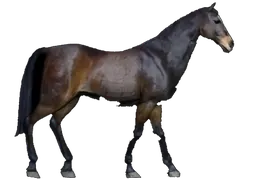
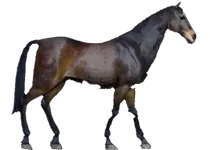
The footer scene, polished
Daniel, 2026-10-16. The horse no longer shows a black patch by its neck
when it lowers its head: the cutout only fills an enclosed gap when the gap
is dark horse, not trapped background. It is cropped to the tightest box
over every frame, with a cleaner edge. The horizon now runs off the left
edge of the screen into the saguaro and ends at the right edge of the text
column, and the tumbleweed drops off that end instead of bouncing on air.
The ground line also gets an explicit width; it had been reaching the edge
only by the accident of its own viewBox size.

diff --git a/components/site/FooterScene.tsx b/components/site/FooterScene.tsx
@@ -8,12 +8,19 @@ import {
   SCENE_LINE_D,
   SCENE_LINE_TRANSFORM,
   SCENE_LINE_VIEWBOX,
+  SCENE_LEFT_D,
+  SCENE_LEFT_TRANSFORM,
+  SCENE_LEFT_VIEWBOX,
 } from "@/components/site/footer-scene-paths";
 import { clearsThreshold } from "@/lib/onscreen";
 
 /** How long the tumbleweed waits before it rolls again while the scene stays
     in view. */
 export const TUMBLEWEED_PAUSE_MS = 25_000;
+/** One bounce, and the drop off the end of the line, in seconds; the CSS
+    animations use the same numbers. */
+const BOUNCE_S = 1.1;
+const FALL_S = 0.7;
 /** How much of the band must be on screen to count as in view. */
 const SCENE_VISIBLE = 0.6;
 
@@ -21,8 +28,9 @@ const SCENE_VISIBLE = 0.6;
  * The band at the foot of every page (Daniel, 2026-10-16): the long logo in
  * the text ink, a horse on the ground line at the right that eats and then
  * stands for five seconds, and a tumbleweed that rolls in from the left,
- * passes behind the saguaro and the mountain, and bounces on until it leaves
- * the screen. It rolls each time the band comes into view and again every
+ * passes behind the saguaro and the mountain, bounces along the line and
+ * drops off its end (Daniel, 2026-10-16: off the end it falls, it does not
+ * bounce on air). It rolls each time the band comes into view and again every
  * TUMBLEWEED_PAUSE_MS while it stays there. Decorative only: hidden from
  * assistive tech, and still under prefers-reduced-motion (no tumbleweed, the
  * horse a single frame).
@@ -43,9 +51,25 @@ export default function FooterScene() {
       if (timer !== undefined) clearTimeout(timer);
       timer = undefined;
     };
+    // The crossing is measured each time, because where the line ends and
+    // how big the tumbleweed is both follow the width of the screen. It rolls
+    // at a speed tied to the band height, so a phone sees the same pace.
     const roll = () => {
       timer = undefined;
       if (!visible || rolling || still.matches) return;
+      const line = el.querySelector<SVGElement>(".scene-line");
+      const tw = el.querySelector<HTMLElement>(".scene-tw");
+      if (!line || !tw) return;
+      const band = el.getBoundingClientRect();
+      const size = tw.offsetWidth;
+      const end = line.getBoundingClientRect().right - band.left;
+      const speed = band.height * 1.1;
+      const distance = end + size / 2 + 4;
+      const seconds = distance / speed;
+      el.style.setProperty("--roll-x", `${end - size / 2}px`);
+      el.style.setProperty("--roll-t", `${seconds.toFixed(3)}s`);
+      el.style.setProperty("--bounce-n", `${(seconds / BOUNCE_S).toFixed(3)}`);
+      el.style.setProperty("--fall-dx", `${(speed * FALL_S * 0.6).toFixed(1)}px`);
       rolling = true;
       el.dataset.rolling = "true";
     };
@@ -61,7 +85,7 @@ export default function FooterScene() {
       }
     };
     const onEnd = (e: AnimationEvent) => {
-      if (e.animationName !== "tumbleweed-across") return;
+      if (e.animationName !== "tumbleweed-fall-y") return;
       rolling = false;
       delete el.dataset.rolling;
       if (visible) timer = setTimeout(roll, TUMBLEWEED_PAUSE_MS);
@@ -96,11 +120,25 @@ export default function FooterScene() {
     <div className="foot-scene" ref={root} aria-hidden="true">
       <div className="scene-tw-track">
         <span className="scene-tw">
-          <span className="scene-tw-bounce">
-            <span className="scene-tw-spin" />
+          <span className="scene-tw-fall-x">
+            <span className="scene-tw-fall-y">
+              <span className="scene-tw-bounce">
+                <span className="scene-tw-spin" />
+              </span>
+            </span>
           </span>
         </span>
       </div>
+      <svg
+        className="scene-left"
+        viewBox={SCENE_LEFT_VIEWBOX}
+        preserveAspectRatio="none"
+        focusable="false"
+      >
+        <g fill="currentColor" transform={SCENE_LEFT_TRANSFORM}>
+          <path d={SCENE_LEFT_D} />
+        </g>
+      </svg>
       <svg className="scene-art" viewBox={SCENE_ART_VIEWBOX} focusable="false">
         <g fill="currentColor" transform={SCENE_ART_TRANSFORM}>
           <path d={SCENE_ART_D} />
@@ -123,8 +161,8 @@ export default function FooterScene() {
           className="scene-horse"
           src="/brand/footer/horse.webp"
           alt=""
-          width={256}
-          height={180}
+          width={210}
+          height={150}
           loading="lazy"
           decoding="async"
         />

diff --git a/app/globals.css b/app/globals.css
@@ -745,9 +745,14 @@ h2{font-size:clamp(1.7rem,3.6vw,2.7rem);letter-spacing:-0.02em;}
   position:relative;height:var(--sh);margin-top:30px;overflow:hidden;
   container-type:inline-size;color:var(--text);
 }
-.scene-art,.scene-line{position:absolute;top:0;height:100%;display:block;}
+/* The horizon runs off the left edge and ends at the right edge of the text
+   column, where the tumbleweed drops off it. The left stretch reaches 20 units
+   into the drawing (x 60) so the two lines meet at full thickness. */
+.scene-art,.scene-line,.scene-left{position:absolute;top:0;height:100%;display:block;}
 .scene-art{left:var(--ax);width:var(--aw);}
-.scene-line{left:calc(var(--ax) + var(--aw) - 0.5px);right:0;width:auto;}
+.scene-left{left:0;width:calc(var(--ax) + var(--aw) * 20 / 860);}
+/* An svg takes its own width from its viewBox unless told, so the width is set. */
+.scene-line{left:calc(var(--ax) + var(--aw) - 0.5px);width:calc(100cqw - 2 * var(--ax) - var(--aw) + 0.5px);}
 .scene-horse{
   position:absolute;right:calc(var(--ax) + 2%);bottom:calc(var(--sh) * 0.285);
   height:calc(var(--sh) * 0.62);width:auto;display:block;
@@ -767,19 +772,25 @@ h2{font-size:clamp(1.7rem,3.6vw,2.7rem);letter-spacing:-0.02em;}
   width:var(--tw);height:var(--tw);
   transform:translateX(calc(-1 * var(--tw) - 4px));visibility:hidden;
 }
-.scene-tw-bounce,.scene-tw-spin{display:block;width:100%;height:100%;}
+.scene-tw-fall-x,.scene-tw-fall-y,.scene-tw-bounce,.scene-tw-spin{display:block;width:100%;height:100%;}
 .scene-tw-spin{
   background-color:currentColor;
   -webkit-mask:url(/brand/footer/tumbleweed.svg) center/contain no-repeat;
   mask:url(/brand/footer/tumbleweed.svg) center/contain no-repeat;
 }
-.foot-scene[data-rolling] .scene-tw{visibility:visible;animation:tumbleweed-across 11s linear forwards;}
-.foot-scene[data-rolling] .scene-tw-bounce{animation:tumbleweed-bounce 1.1s infinite;}
+/* FooterScene sets --roll-x and --roll-t (to the end of the line), --bounce-n
+   (bounces in that time) and --fall-dx (how far it drifts while it drops). */
+.foot-scene[data-rolling] .scene-tw{visibility:visible;animation:tumbleweed-across var(--roll-t,9s) linear forwards;}
+.foot-scene[data-rolling] .scene-tw-fall-x{animation:tumbleweed-fall-x .7s linear var(--roll-t,9s) forwards;}
+.foot-scene[data-rolling] .scene-tw-fall-y{animation:tumbleweed-fall-y .7s cubic-bezier(.55,0,1,.45) var(--roll-t,9s) forwards;}
+.foot-scene[data-rolling] .scene-tw-bounce{animation:tumbleweed-bounce 1.1s var(--bounce-n,8) forwards;}
 .foot-scene[data-rolling] .scene-tw-spin{animation:tumbleweed-spin 1.3s linear infinite;}
 @keyframes tumbleweed-across{
   from{transform:translateX(calc(-1 * var(--tw) - 4px));}
-  to{transform:translateX(calc(100cqw + 4px));}
+  to{transform:translateX(var(--roll-x,100cqw));}
 }
+@keyframes tumbleweed-fall-x{to{transform:translateX(var(--fall-dx,40px));}}
+@keyframes tumbleweed-fall-y{to{transform:translateY(calc(var(--sh) * 1.1));}}
 @keyframes tumbleweed-bounce{
   0%{transform:translateY(0);animation-timing-function:cubic-bezier(.2,.6,.4,1);}
   38%{transform:translateY(-45%);animation-timing-function:cubic-bezier(.6,0,.8,.4);}

diff --git a/components/site/footer-scene-paths.ts b/components/site/footer-scene-paths.ts
@@ -13,3 +13,11 @@ export const SCENE_ART_D = "M117 455 c-2 -2 -5 -6 -6 -9 -2 -4 -4 -9 -6 -12 -4 -9
 export const SCENE_LINE_VIEWBOX = "900 30 4155 465";
 export const SCENE_LINE_TRANSFORM = "translate(900 30) translate(0.000000,465.000000) scale(1.000000,-1.000000)";
 export const SCENE_LINE_D = "M0 139 l0 -8 70 0 c39 -1 149 -1 246 -2 97 0 233 -1 303 -2 150 -1 398 -2 398 0 1 1 453 0 596 -2 50 -1 194 -2 320 -2 549 -2 572 -2 573 -1 1 1 399 0 655 -3 185 -1 918 -3 940 -2 7 1 21 2 32 2 l19 1 0 3 0 3 -15 1 c-11 1 -61 1 -159 2 -80 0 -157 1 -171 2 -90 3 -639 7 -1277 7 -138 1 -265 1 -281 2 -23 0 -30 0 -31 -1 -1 -1 -21 -1 -98 0 -219 2 -718 4 -1065 5 -161 0 -675 1 -931 3 l-124 0 0 -8z M0 21 l0 -12 5 0 6 1 -1 9 c0 10 0 11 -6 13 l-4 0 0 -11z";
+
+/** The horizon to the left of the saguaro (Daniel, 2026-10-16: run the line
+    off the screen on the left). A stretch of the drawn line from x 1100 to
+    1900, lifted two rows so it meets the tip of the drawing at x 48, drawn in
+    the same rows as the drawing so it stretches to any width. */
+export const SCENE_LEFT_VIEWBOX = "0 30 800 465";
+export const SCENE_LEFT_TRANSFORM = "translate(0 30) translate(0.000000,465.000000) scale(1.000000,-1.000000)";
+export const SCENE_LEFT_D = "M0 140 l0 -8 86 0 c48 -1 115 -1 151 -1 35 0 118 -1 184 -1 66 -1 179 -2 250 -2 l129 0 0 9 0 8 -31 0 c-17 0 -86 0 -154 1 -68 0 -234 1 -369 1 l-246 1 0 -8z";
